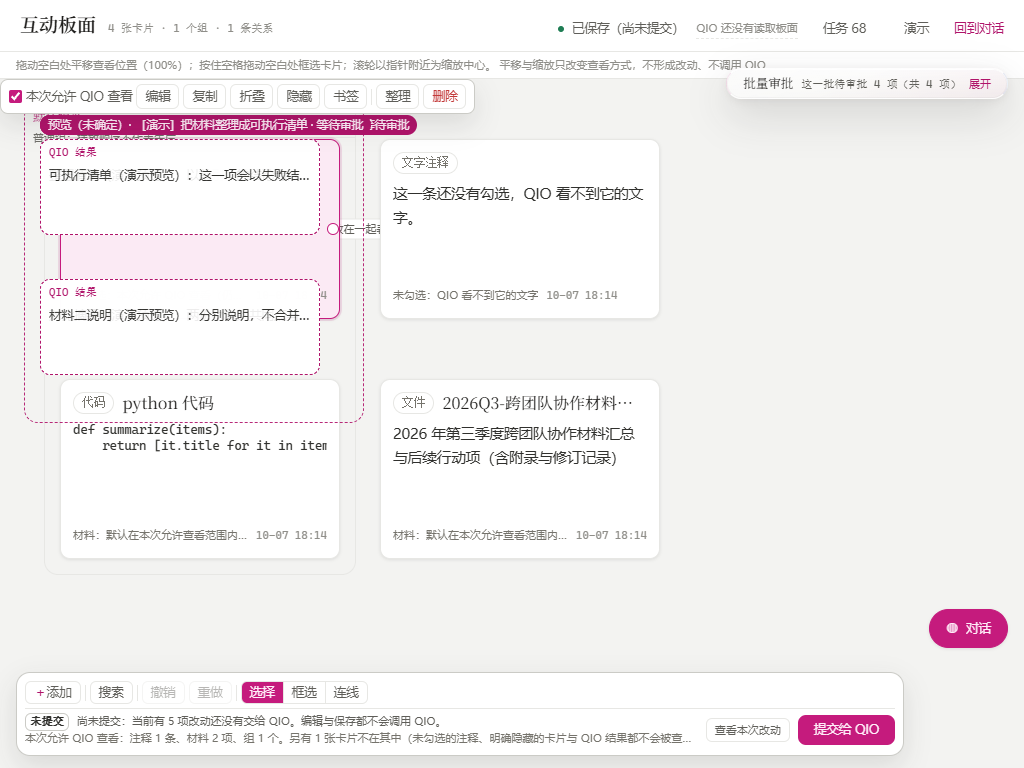
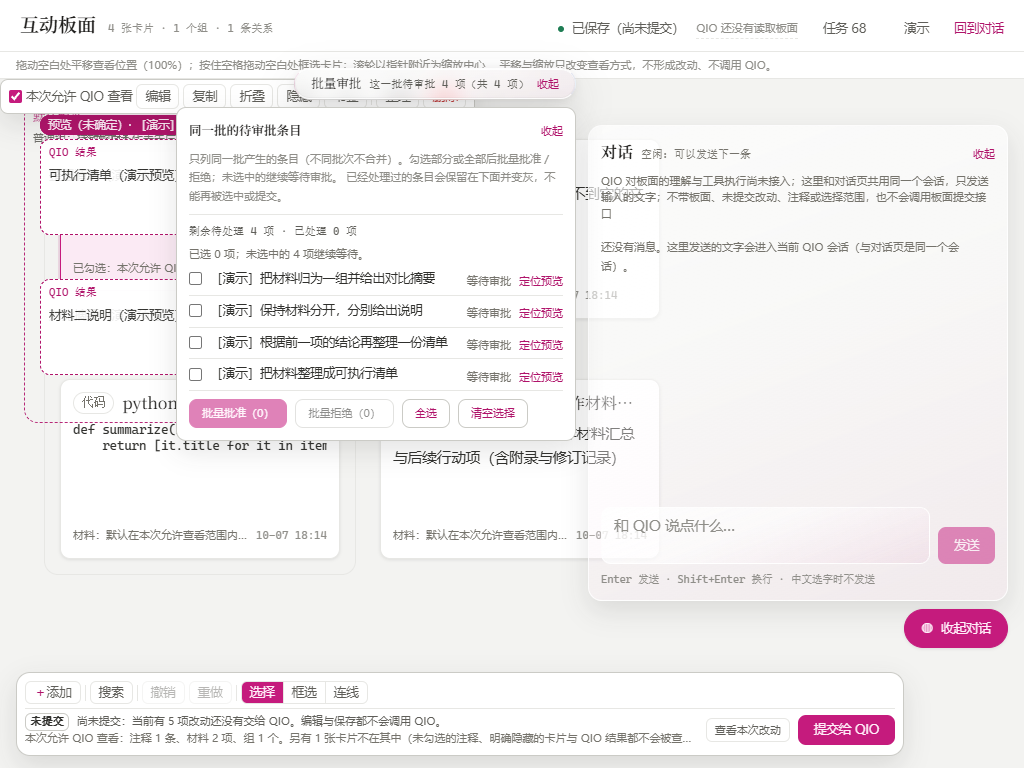
docs(interactive-ui): P18 里程碑 + 交付报告 + 独立复核占位
- status.md：新增 P18（起点 4538578、分支、五项修复、审美对照数字、集成期发现的真实缺陷、
  已知限制与未验证项）；并把 P17 里三处已被本轮推翻的写法标注为「P18 更正」
  （组 N → 默认组名、按创建秒归批、按剩余待审批数判资格）
- docs/interactive-ui-refinement-report.md：交付报告（基线/分支、五项修复的触发-改动-可见结果、
  改前改后对照、命令与结果、草稿与异常路径证据、已知限制、边界）
- docs/interactive-ui-verify-integrated.md：集成后独立复核（由独立复核者写入）
- python scripts/check_docs.py 通过（30 个里程碑条目）

diff --git a/docs/interactive-ui-refinement-report.md b/docs/interactive-ui-refinement-report.md
@@ -1,0 +1,124 @@
+# 互动板修复与前端审美优化 · 交付报告（2026-10-07 第二轮）
+
+本报告对应分支 `fix/interactive-ui-refinement`。规则口径见
+`docs/interactive-mode-contract.md` **§9**（明确覆盖此前写偏的 §1.3 / §6.1 / §6.4 / §8.1 / §8.5）。
+
+## 1. 基线、分支与提交
+
+| 项 | 值 |
+| --- | --- |
+| 起点提交 | `453857857cb7d0a12234ce6a3baa7128ab50eca7`（远端 `feat/interactive-frontend-layout` 顶端；已 `git ls-remote` 核对，自上一轮核对以来无新提交） |
+| 产品实现对应提交 | `13066119a56eed19b9f48a7b8ec202db03e4d243`（其后只补了验收脚本） |
+| 本轮分支 | `fix/interactive-ui-refinement` |
+| 集成工作区 | `D:\qio-dev\qio-ui` |
+| 并行子工作区 | `qio-ui-a` / `qio-ui-b` / `qio-ui-c` / `qio-ui-d`（`wt/ui-a-visual` / `wt/ui-b-rules` / `wt/ui-c-drafts` / `wt/ui-d-overlay`） |
+| 未做 | 不合并 `main`；不合并 `fix/unified-process-audit` 与 `feat/unified-process-attachments-streaming`；不改历史迁移；不新增数据库结构 |
+
+集成实例：后端 `http://127.0.0.1:8931`、前端 `http://127.0.0.1:5431`（数据目录 `%TEMP%\qio-ui-integration`）。
+改前基线实例：后端 `8921`、前端 `5421`（停在 `4538578`，未改动）。
+
+## 2. 五项修复：触发条件、改动与可见结果
+
+### 2.1 默认组名（契约 §9.1）
+- **触发：** 两张卡片重叠成组 / 手动新建组 / 两个已有组合并；留空或取消改名。
+- **改动：** 后端 `models.DEFAULT_GROUP_NAME = "默认组名"`（`default_group_name()` 保留参数位但固定返回默认名）、
+  `board.py` 的默认名正则同时认「默认组名」与历史「组 N」、归一化保留历史 `defaultName`；
+  前端 `board.ts` 的 `nextDefaultGroupName` 不再编号，`isDefaultGroupName` 同时认两种形态。
+- **可见结果：** 成组后组名输入框显示 `默认组名` 与徽标「系统默认名，可改」；改名后前后端一致；留空后组仍成立且名字不变；
+  刷新后组、成员、组名都在。**组身份按 id，默认名可重复。**
+- **反例：** 把 `nextDefaultGroupName` 改回编号 → 用例失败（`expected '组 8' to be '默认组名'`）；
+  后端改回 `f"组 {index}"` → `assert '组 1' == '默认组名'` 失败。
+
+### 2.2 批次不能按创建时间猜（契约 §9.2）
+- **触发：** 本地批次记录被清除 / 写入失败 / 被禁用 / 达到容量上限 / 内容损坏。
+- **改动：** **删除** `approval.ts` 里「`createdAt` 截断到秒」这级归批；只保留会话记录与真实 `submissionId`；
+  记录有界（条数上限 + 7 天 TTL + 读侧上限），任何异常都降级为「这批不成批」，绝不合并。
+- **可见结果：** 反例场景 13（实机）：一次创建动作产生四项且**创建时间落在同一秒**，
+  清掉本地记录后刷新 —— 批量入口**不出现**（`entry:false`）；有记录时正常出现。
+- **反例：** 恢复「创建秒」归批 → 用例失败（`expected [{key:'second:1791345600'}] to have length 4 but got 1`）。
+- **文档更正：** 契约 §8.5 标注「已作废」并写明「宁可不出批量列表，也不把不同批次相加」这句与实现不符的原因。
+
+### 2.3 同批达到四项后列表保留到处理完（契约 §9.3）
+- **触发：** 同一批产生的意图总量 ≥4，随后用户处理掉其中若干项。
+- **改动：** `batchesWithList` 资格改成「总量 ≥4 且 `pendingIds > 0`」；新增剩余/已处理计数与
+  「已处理项不可再选」判断；组件显示「待审批 N 项（共 M 项，已处理 K 项）」。
+- **可见结果（实机，场景 9，10/10 通过）：** 四项 → 入口出现、默认收起 → 刷新后仍在 →
+  展开 4 条 → 处理 1 项后入口仍在并显示「待审批 3 项（共 4 项，已处理 1 项）」→ 剩 2 项、1 项仍在 →
+  全部处理完入口消失。
+- **反例：** `batchesWithList` 改回 `pendingIds ≥ 4` → 用例失败（`expected [] to have length 1`）。
+
+### 2.4 聊天草稿持久化与恢复（契约 §9.4）
+- **触发：** 输入草稿后刷新 / 收起面板 / 页面隐藏；发送失败；存储不可用；保存回执迟到。
+- **改动：** `interactive/drafts.ts`（存储、序号、迟到回执判定）+ `stores/session.ts`
+  （按话题持久化、防抖 400ms、收起/隐藏落盘、受理成功才删、失败恢复原稿、不覆盖新输入、明确失败与重试）。
+- **可见结果（实机，场景 14，3/3 通过）：** 输入后 **471ms** 落盘（轮询到真实写入，不是固定延迟）→
+  刷新后输入框恢复原文 → 恢复过程 **0 次** `/api/turns` 请求（不自动发送）。
+  另有实机证据：发送失败保留文字并提示；受理成功后草稿记录被删；存储拒绝写入时提示「草稿未保存」并可重试成功。
+
+### 2.5 卡片草稿保存失败不静默（契约 §9.5）
+- **触发：** 草稿保存请求失败；防抖未触发就离开编辑器/页面。
+- **改动：** `stores/interactive.ts` 建立 idle/saving/saved/error + 失败原因 + 重试（串行化 PUT、丢弃旧返回、
+  板面重载不覆盖未保存草稿）；新增 `CardDraftHint.vue` 并在卡片编辑器内接线；`confirmEdit/cancelEdit` 调 `flushDrafts()`。
+- **可见结果（实机，场景 15，4/4 通过）：** 保存失败时编辑器内显示「草稿未保存：…（输入内容已保留）」+「重试保存」，
+  编辑内容保留，**没有**创建正式卡片、**没有**提交板面、**没有**调用 QIO。
+
+## 3. 审美与布局：改前 / 改后
+
+对照截图（同数据、同尺寸、同主题）：`docs/interactive-ui-screenshots/` 下 `before-*` 36 张 / `after-*` 36 张；
+数字见 `metrics-before.json` 与 `metrics-after.json`（采集脚本 `scripts/interactive-verify/ui-metrics.mjs`）。
+
+| 档位 | 工具栏高度（改前 → 改后） | 行数 | 聊天×批量相交（改前 → 改后） | 提交可点 | 连接点命中 | 横向溢出 |
+| --- | --- | --- | --- | --- | --- | --- |
+| 1440×900 | 172px → **60px** | 4 → 2 | 127200px² → **0** | 是 | 改前否（命中局部工具栏）→ **是** | 无 |
+| 1024×768 | 236px → **84px** | 5 → 2 | 133600px² → **0** | 是 | 是 → 是 | 无 |
+| 800×600 | 309px → **84px**（目标 ≤96px） | 6 → 2 | 94864px² → **0** | 是 | 是 → 是 | 无 |
+
+其他审美落点：工具栏常态只留添加/搜索/撤销重做/视图/可见范围/右端提交，分组类操作进「选中对象附近」的选择菜单
+（未选中时整块不存在，条件不满足的操作**不显示**而不是禁用）；顶部只留板面名、**唯一**的保存状态、未接入状态与必要入口，
+数量退到次级；提交区常驻「本次可见：材料 X · 注释 Y」+ 提交按钮，完整前后变化进详情；
+聊天外层透明、气泡与输入区用轻量底色；卡片类型→标题→正文→元信息分层，组框比卡片更轻，
+正式内容实线 / 待审批完成后虚线并配文字状态；界面不出现 adapter/接口/求差/状态机/DOM 等开发用语。
+
+## 4. 验收命令与结果
+
+| 命令 | 结果 | 性质 |
+| --- | --- | --- |
+| `cd frontend; npx vue-tsc --noEmit` | 无输出（exit 0） | 静态 |
+| `cd frontend; npx vitest run src/interactive src/components/interactive src/stores` | 40 文件 / **510 用例全绿** | 组件与纯函数 |
+| `cd frontend; npx vitest run`（全量，各子工作区） | 114 文件 / 1185 用例全绿（B 报告 1174 passed + 1 个负载敏感用例） | 组件 |
+| `cd backend; uv run --frozen pytest -q` | **PYTEST_EXIT=0，failed=0** | 后端回归 |
+| `python scripts/check_docs.py` | 通过（30 个里程碑条目） | 文档一致性 |
+| `node scripts/interactive-verify/fe-scenarios.mjs` | **69/69 通过**（场景 1–15） | **实机**（真实鼠标/键盘/滚轮 + 真实接口） |
+| `node scripts/interactive-verify/ui-metrics.mjs` | 见上表 | **实机**测量 |
+| `node scripts/interactive-verify/ui-screens.mjs` | 72 张对照图 | **实机**截图 |
+| `powershell -File scripts/interactive-verify/rerun-health-probe.ps1` | 5/5 通过（CPU 48–91%） | 稳定性复核 |
+
+**模拟项（明确标注）：** 发送失败、存储写入失败是页面级 `fetch`/`localStorage` 拦截；
+本机没有模型凭据，真实 QIO 回复不可验证。
+
+## 5. 草稿恢复与异常路径证据
+
+- 草稿落盘等待的是**真实写入结果**（页面内轮询 localStorage 直到出现目标文字，实测 471ms），不是固定延迟。
+- 刷新后恢复：输入框原文恢复、消息流 0 条、`/api/turns` 0 次。
+- 发送失败：保留输入 + 「发送失败：…（输入已保留，可以重试）」，存储记录仍在。
+- 存储失败：提示「草稿未保存：本机存储已满…（文字还在输入框里，可以重试）」+ 重试按钮，重试成功后记录写回。
+- 卡片草稿失败：编辑器内提示 + 重试，未确认草稿不变成正式卡片。
+
+## 6. 已知限制与未验证项
+
+1. **跨调用持久化无法在本环境验证：** 探针 Chrome 每次调用新建实例，localStorage 跨调用不保留
+   （同一次运行内 `location.reload()` 正常）。因此「关掉浏览器再打开」这一条没有实机证据；
+   草稿与批次记录的恢复证据都是同一次运行内刷新。存储层本身是 `localStorage`，单元用例覆盖了损坏/禁用/写满降级。
+2. **真实 QIO 未接入：** `delivery.delivered` 恒为 false，提交只落库并标记未接入；界面与文档都如实显示。
+3. **健康探测 130ms：** 相关用例复跑 5 次全过，未复现；作为待确认的稳定性现象记录，未降低门槛、未删测试。
+4. **未做：** 触摸 / 高 DPI / 最小窗口的像素级检查；批量列表与聊天面板的拖拽调整大小；
+   三浮层（聊天 + 批量 + 任务浮层）同开时的连续采样。
+5. **依赖别人的小项：** 提交区（`SubmitCluster.vue`）自身仍偏高，工具栏用容器级 `:deep()` 收束才达到 84px；
+   如果以后改提交区，需要同步复核工具栏高度。
+6. **批次判定仍是前端 adapter**（服务端没有批次字段，本轮不改数据库）：本地记录丢失时该批不再出现，
+   如实说明「批次不可恢复」，不会误合并。
+
+## 7. 边界
+
+- 本轮**没有**开发真实 QIO 板面理解、附件系统或新的任务执行机制；没有合并两条开发线；没有合入 `main`。
+- 未提交板面与未勾选注释不会经聊天或工具泄露：聊天只发文字、不附带板面、不调用提交接口（实机请求级证据见场景 8/14）。

diff --git a/docs/status.md b/docs/status.md
@@ -737,12 +737,15 @@
   选中卡片显示**连接点**，拖到另一张卡片建链，无效位置或取消不建链；两张未分组卡片**明确重叠**时提示
   「松开后合并成组」，松手才成组，只认一张最明确的目标（重叠 ≥ 较小矩形 25% 且中心覆盖），
   靠近或边框相碰不成组；组名初始为系统默认名「组 N」，留空保留默认名且组仍成立。
+  **（P18 更正：系统默认名改为「默认组名」，见契约 §9.1）**
 - **Implementation（聊天与提交互相独立）：** 右下悬浮聊天复用 `stores/session.ts`（不新建事件订阅），
   Enter 发送 / Shift+Enter 换行 / 输入法选字中不发送 / 空白不发送；**只发文字，不带板面、未提交改动、
   注释或选择范围，也不调用板面提交接口**；失败保留输入并显示真实原因；收起展开不丢消息与草稿。
   提交区显示准确的保存/提交状态与本次有效改动、允许查看范围。
 - **Implementation（批次判定，不改数据库）：** 前端 adapter 按「本次会话记录的创建批次 > 服务端 `submissionId`
-  > `createdAt` 截断到秒 > 自成一批」分组，**不同批次不累加**；宁可不出批量列表，也不把不同批次相加。
+  > `createdAt` 截断到秒 > 自成一批」分组，**不同批次不累加**。
+  **（P18 更正：第三级「按创建秒」被证明会误合并两个不同批次，已删除；「宁可不出批量列表，也不把不同批次相加」
+  这句与当时的实现不符，见契约 §8.5 的作废说明与 §9.2 的正确规则。）**
 - **Implementation（保存与恢复）：** 每次有效操作后防抖自动保存（450ms）；卡片编辑草稿与聊天草稿分开保存、
   互不覆盖；未完成的拖动不保存；重新打开不自动提交、不自动批准、不自动继续任务。
 - **本轮修掉的真实缺陷（都有实测证据）：**
@@ -785,6 +788,63 @@
     本机 Chrome 在累计几十个 headless 实例后无法再承载（12 个进程 / CPU 91%，CDP 调用超时），
     Edge 与 Chrome 同为 Chromium、同一套 CDP，几何口径一致；主智能体本地的 Chrome 复验在最后阶段不可用。
 - **后续：** 真实 QIO 理解与执行接入提交投递点；把批次判定挪到服务端（需要新的迁移）。
+
+---
+
+### P18 — 互动板修复与前端审美优化（2026-10-07 第二轮）
+
+- **Status：** partial
+- **起点与分支：** 起点提交 `4538578`（= 远端 `feat/interactive-frontend-layout` 顶端，已用 `git ls-remote` 核对，
+  自上一轮核对以来**没有新提交**；产品实现对应 `1306611`，其后只补了验收脚本）。
+  本轮分支 `fix/interactive-ui-refinement`。四路并行开发（布局与审美 / 批次与分组规则 / 草稿与恢复 / 浮层与独立验收），
+  各自独立 worktree，主智能体负责契约、冻结接口、集成与最终验收。
+  **没有合并 `main`、没有合并 `fix/unified-process-audit` 与 `feat/unified-process-attachments-streaming`、
+  没有改历史迁移、没有新增数据库结构。**
+- **本轮范围：** 修掉用户点名的五个问题 + 互动板前端审美与信息层级；契约新增
+  `docs/interactive-mode-contract.md` **§9**（明确覆盖此前写偏的 §1.3/§6.1/§6.4/§8.1/§8.5），
+  实施方案见 `docs/superpowers/plans/2026-10-07-interactive-ui-refinement.md`，
+  交付报告见 `docs/interactive-ui-refinement-report.md`，独立复核见 `docs/interactive-ui-verify-integrated.md`。
+- **修复 1 · 默认组名（§9.1）：** 所有需要系统默认名的路径统一 **「默认组名」**（前后端一致，不只是显示文字）；
+  `defaultName` 只表示「系统给的名字」；组身份按 id、默认名可重复；历史「组 N」不被批量覆盖
+  （识别默认名时同时认两种形态）；留空/取消改名时组仍成立并保留默认名；加入已有组保留已有组名。
+- **修复 2 · 批次只靠可证明来源（§9.2）：** **删除**「`createdAt` 截断到秒就是同一批」这级推断。
+  早期实现把两个不同批次各两项（同一秒创建）误并成一个四项批次 —— 契约 §8.5 里「宁可不出批量列表，
+  也不把不同批次相加」的说法**与实现不符，已作废并写明原因**。现在只用：会话里按次记录的创建批次
+  （有界：条数上限 + 7 天 TTL + 读侧上限 + 损坏/禁用/写满降级）与真实 `submissionId`；都不可靠时各自成批。
+- **修复 3 · 批量列表保留到处理完（§9.3）：** 资格从「剩余待审批 ≥4」改成「该批产生的意图总量 ≥4 且还有未处理项」，
+  入口显示「待审批 N 项（共 M 项，已处理 K 项）」，已处理项不能再被选中/提交，全部处理完后入口消失，
+  刷新后资格与处理状态保持，开合只由用户决定。
+- **修复 4 · 聊天草稿持久化（§9.4）：** 草稿按会话/话题持久保存（防抖 400ms + 收起面板/页面隐藏时落盘），
+  刷新后恢复且不自动发送；发送**受理成功才删**，失败恢复原稿且不覆盖新输入；迟到的保存回执用序号判定丢弃；
+  存储不可用时明确提示并允许重试（不显示「已保存」）；悬浮聊天与对话页共用同一份草稿、单一写者。
+- **修复 5 · 卡片草稿失败反馈（§9.5）：** 草稿保存有真实状态（idle/saving/saved/error）+ 失败原因 + 重试，
+  提示就近显示在编辑器里；关闭编辑器或页面卸载前把待保存内容落盘；重试不建卡、不提交、不调用 QIO。
+- **审美与布局：** 底部工具栏常态只留添加/搜索/撤销重做/视图/可见范围/右端提交，分组类操作移到**选中对象附近**的
+  `SelectionMenu`（未选中时整块不存在，条件不满足的操作不显示而不是禁用）；顶部只留板面名、**唯一的**保存状态、
+  未接入状态与必要入口，数量退到次级；聊天与批量列表**并排优先**、按实际可用区域算尺寸（不再「窗口高度减固定值」）；
+  卡片类型→标题→正文→元信息分层，组框更轻，正式内容实线 / 待审批完成后虚线配文字。
+- **实机证据（详见交付报告）：** 三档尺寸 × 暗色亮色对照截图 `docs/interactive-ui-screenshots/`
+  （`before-*` 36 张 / `after-*` 36 张，同数据同尺寸同主题）；指标 `metrics-before.json` / `metrics-after.json`：
+  工具栏高度 172→**60**（1440）、236→**84**（1024）、309→**84**（800×600，目标 ≤96）；
+  聊天×批量相交 127200/133600/94864 → **0 px²**；提交按钮三档可点；连接点三档命中；无横向溢出。
+  完整验收脚本 `scripts/interactive-verify/fe-scenarios.mjs` **69/69 通过**（含新规则的反例场景 13/14/15）。
+- **本轮修掉的真实缺陷（集成期发现，都有实测证据）：**
+  1. **演示入口复用路径漏记批次**：后端对尚未结束的同名演示项会复用，store 只记录「新出现的 id」，
+     复用时整批记不进去 —— 实测「点了生成 4 项，批量入口却不出现」。改成以**接口返回的这一批**为准。
+  2. **多选时每张选中卡片各渲染一份局部工具栏**（叠成一摞，点击命中的是板面顺序最后那张）：
+     改成只由所选里最后一张渲染。
+- **验收脚本本身的问题（已修）：** 上一轮「连跑失败、单跑通过」的根因是**跨会话量坐标**——
+  两次会话之间顶部栏高度会变（实测差 28px），拖拽起点落到卡片外；现在探针新增 `drag` 操作，
+  在**同一会话里**先量锚点再派发真实鼠标事件。取值一律按标记取，不再「取最后一个 JSON」。
+  探针收尾改成先 `Browser.close` 再兜底 kill（避免刚写的 localStorage 被强杀丢掉）。
+- **已知限制（本轮未解决，如实记录）：**
+  - 探针 Chrome 每次调用新建实例，**localStorage 跨调用不保留**（同一次运行内 reload 正常）：
+    因此「关掉浏览器再打开」这类跨调用持久化无法在本环境验证；草稿/批次记录的恢复证据是同一次运行内 reload。
+  - 本机无模型凭据：真实 QIO 回复不可验证；发送失败与存储失败都是**页面级拦截模拟**（报告中逐条标注）。
+  - 健康探测 130ms 现象：`backend/tests/test_interactive_during_heavy_work.py` 的相关用例复跑 5 次全过
+    （CPU 48–91%、空闲内存 9.8–10.8GB），**未复现**；不降低门槛、不删测试，按待确认的稳定性现象记录。
+  - 未做：触摸 / 高 DPI / 最小窗口的像素级检查；真实 QIO 理解与执行仍未接入（`delivery.delivered` 恒为 false，
+    界面与文档都如实写明）。
 
 ---
 

diff --git a/docs/interactive-ui-verify-integrated.md b/docs/interactive-ui-verify-integrated.md
@@ -1,0 +1,6 @@
+# 互动板修复与前端审美优化 · 集成后独立复核
+
+> 本文件由**独立复核者**在集成提交上亲自读源码 + 起应用操作后写成，不采信开发方报告。
+> 复核进行中；结论、证据与问题清单由复核者写入本节。
+
+（复核范围：规则 1–8、布局与审美三档 × 两主题的实测数字、反例与稳定性复跑、未验证项清单。）
